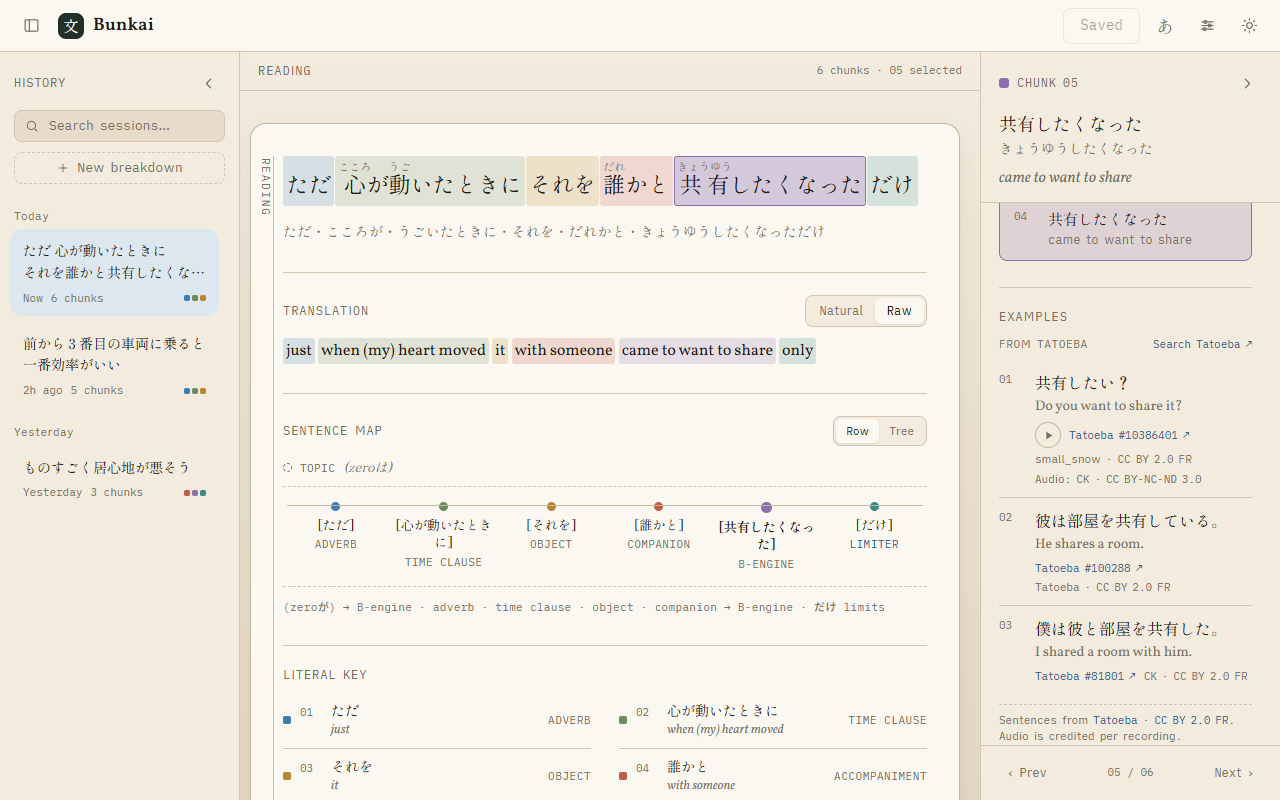
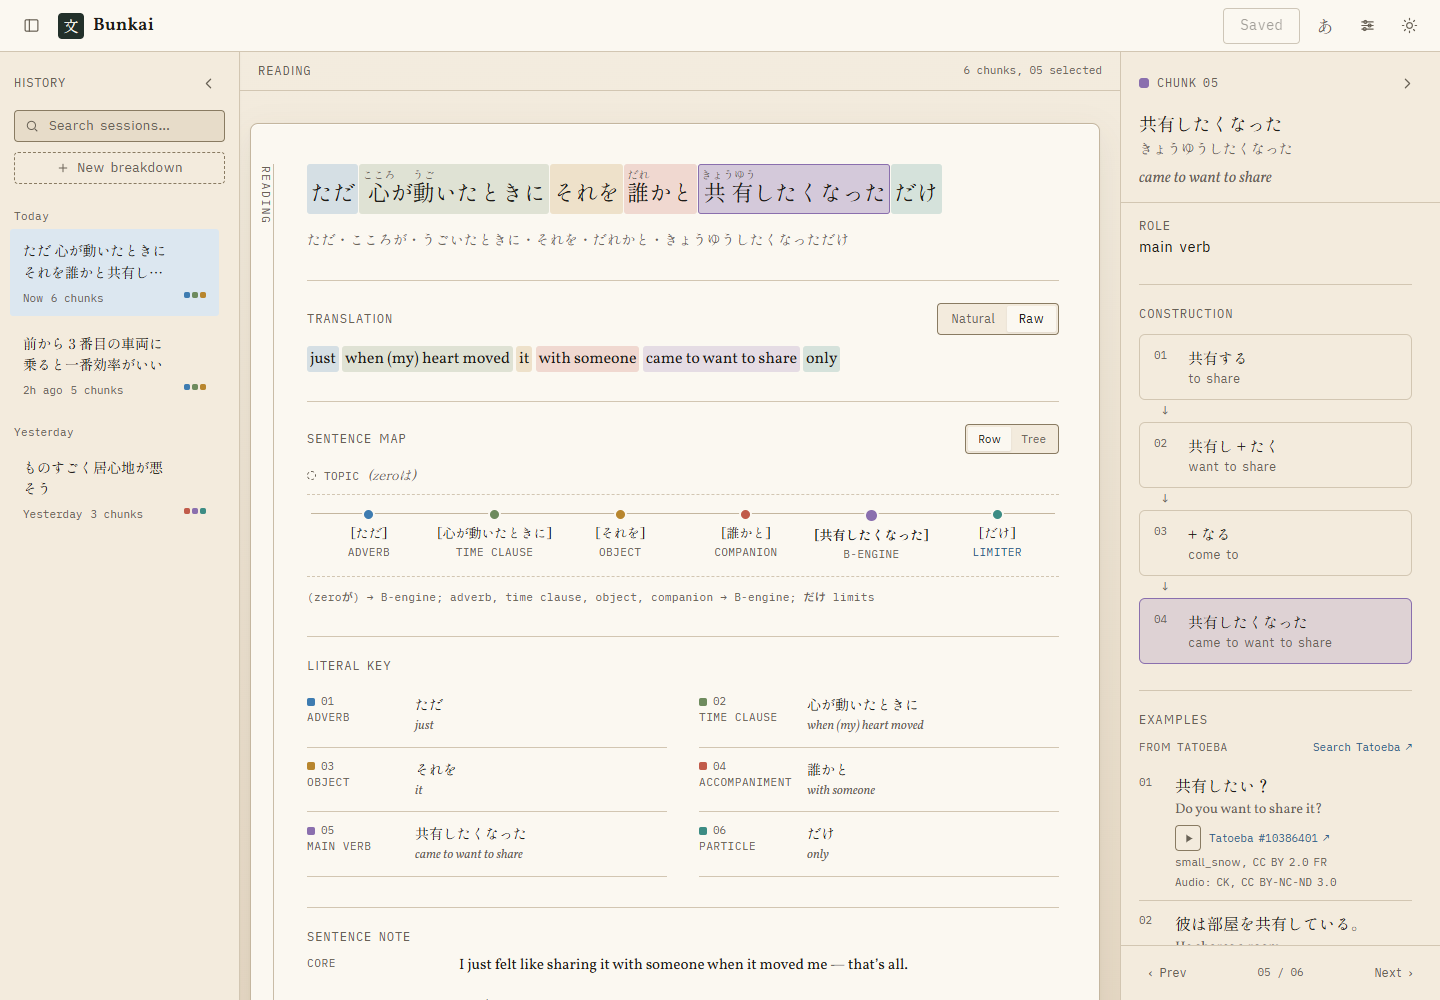
docs: refresh README hero

diff --git a/README.md b/README.md
@@ -22,7 +22,7 @@
 
 <p align="center">
   <img src="./.github/readme/hero.png" width="100%"
-       alt="Bunkai reading workspace with a chunked Japanese sentence and a breakdown sidebar" />
+       alt="Bunkai reading workspace with a chunked Japanese sentence, sentence map, literal key, and breakdown sidebar" />
 </p>
 
 Bunkai is a desktop-first, local-first Japanese sentence breakdown app. Paste a sentence,
@@ -45,13 +45,16 @@ course.
 - **Natural and raw translations.** Read the adapted English or the literal chunk-order
   gloss. Natural highlights follow meaning, not English word order.
 - **Furigana and sentence maps.** Name and vocabulary readings are independent switches;
-  the Cure Dolly-style map shows topic, A-car, B-engine, modifiers, and limiters.
+  the Cure Dolly-style Row and Tree maps show topic, A-car, B-engine, modifiers, and limiters.
 - **Real examples from Tatoeba.** 2–3 attributed corpus sentences with approved English
   translations, source links, and licensed audio where available. Cached locally.
-- **Local history.** Sessions live in IndexedDB. Search, reopen, save, and undo without an
-  account or a server.
+- **Local history.** Sessions live in IndexedDB. Search, reopen, save, and delete individual
+  queries with Undo — no account or server.
 - **Bring your own AI key (optional).** OpenRouter, OpenCode via your proxy, OpenAI, or
   Claude. With no key, the sample and manual modes work fully.
+- **Japanese quality checks.** New input and AI breakdowns are checked for Japanese script,
+  kana readings, roles, and chunks that rebuild the sentence. Failures show a toast and are
+  not saved.
 - **Local-first.** No hosted instance, backend, login, cloud sync, or analytics. AI keys
   and sessions stay in your browser on your machine.
 - **Installable and offline.** Install from desktop Chrome/Edge; the app shell and fonts
